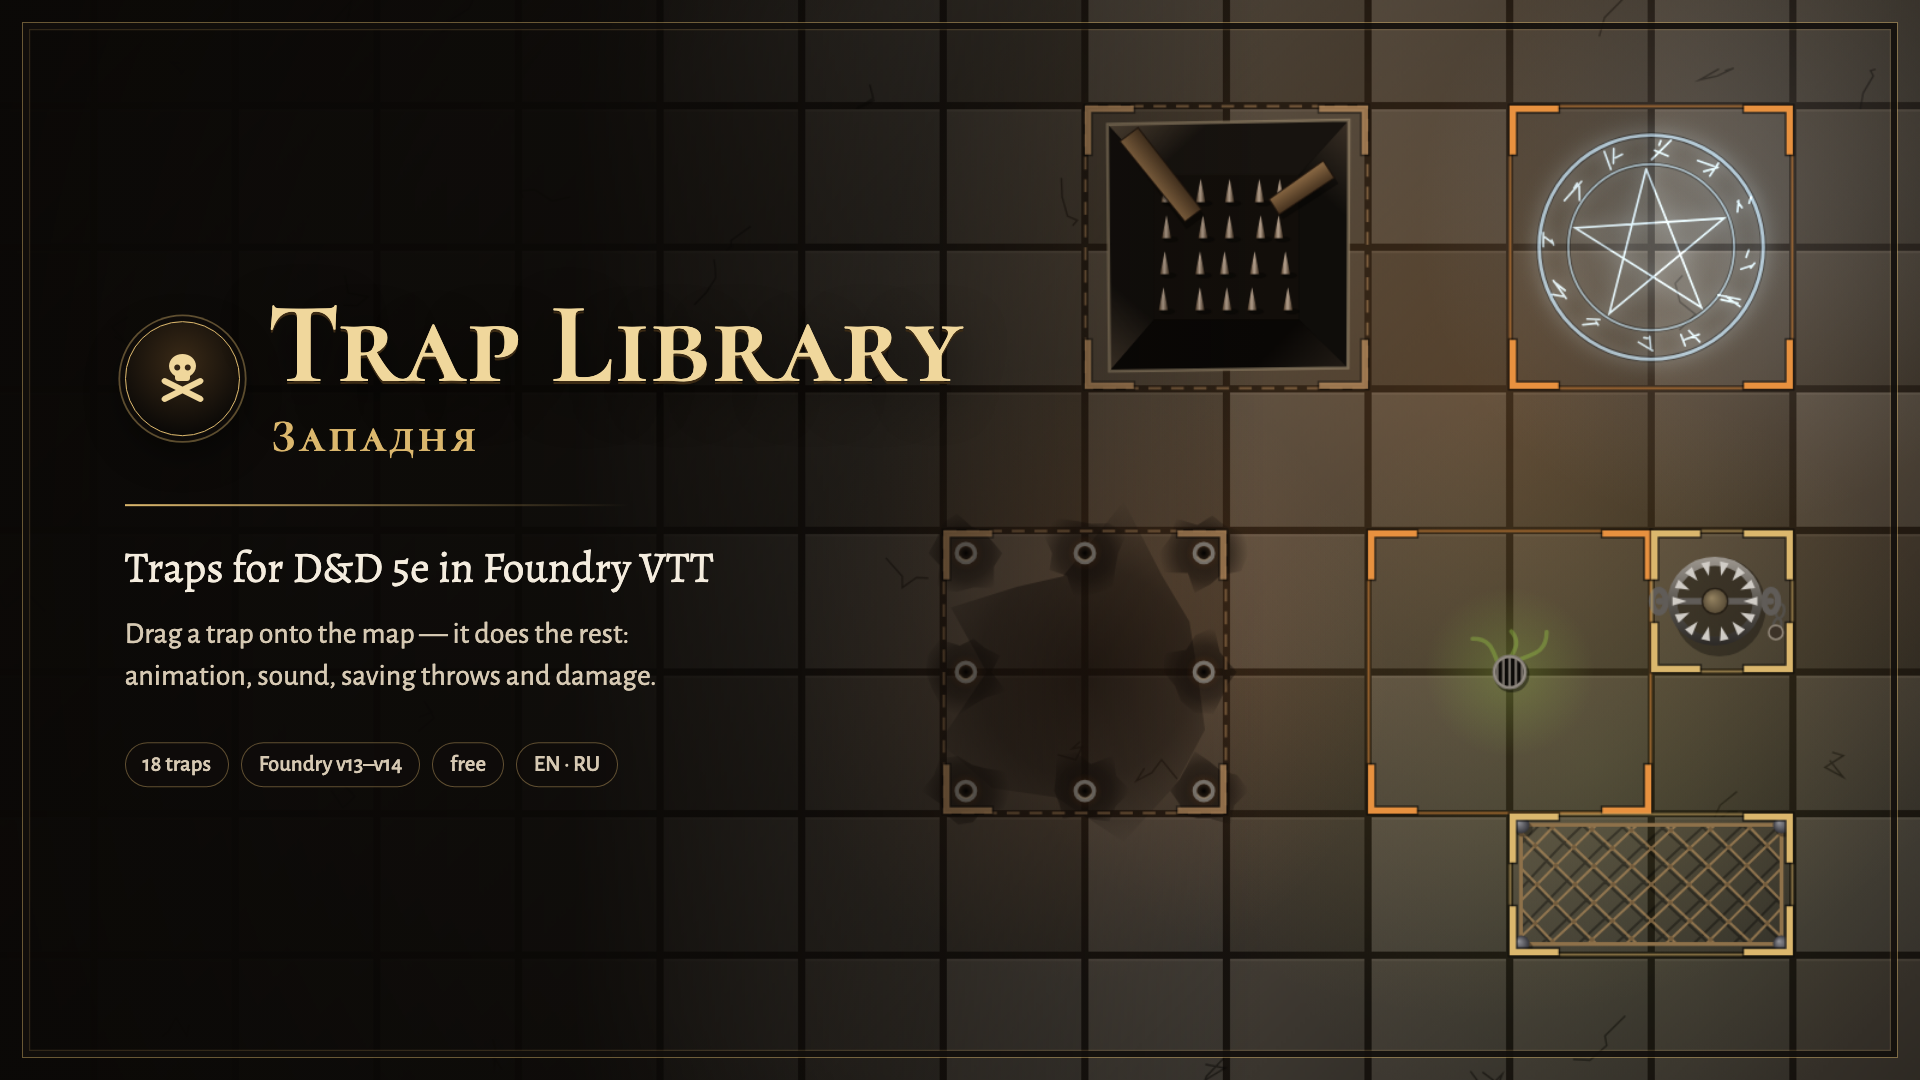
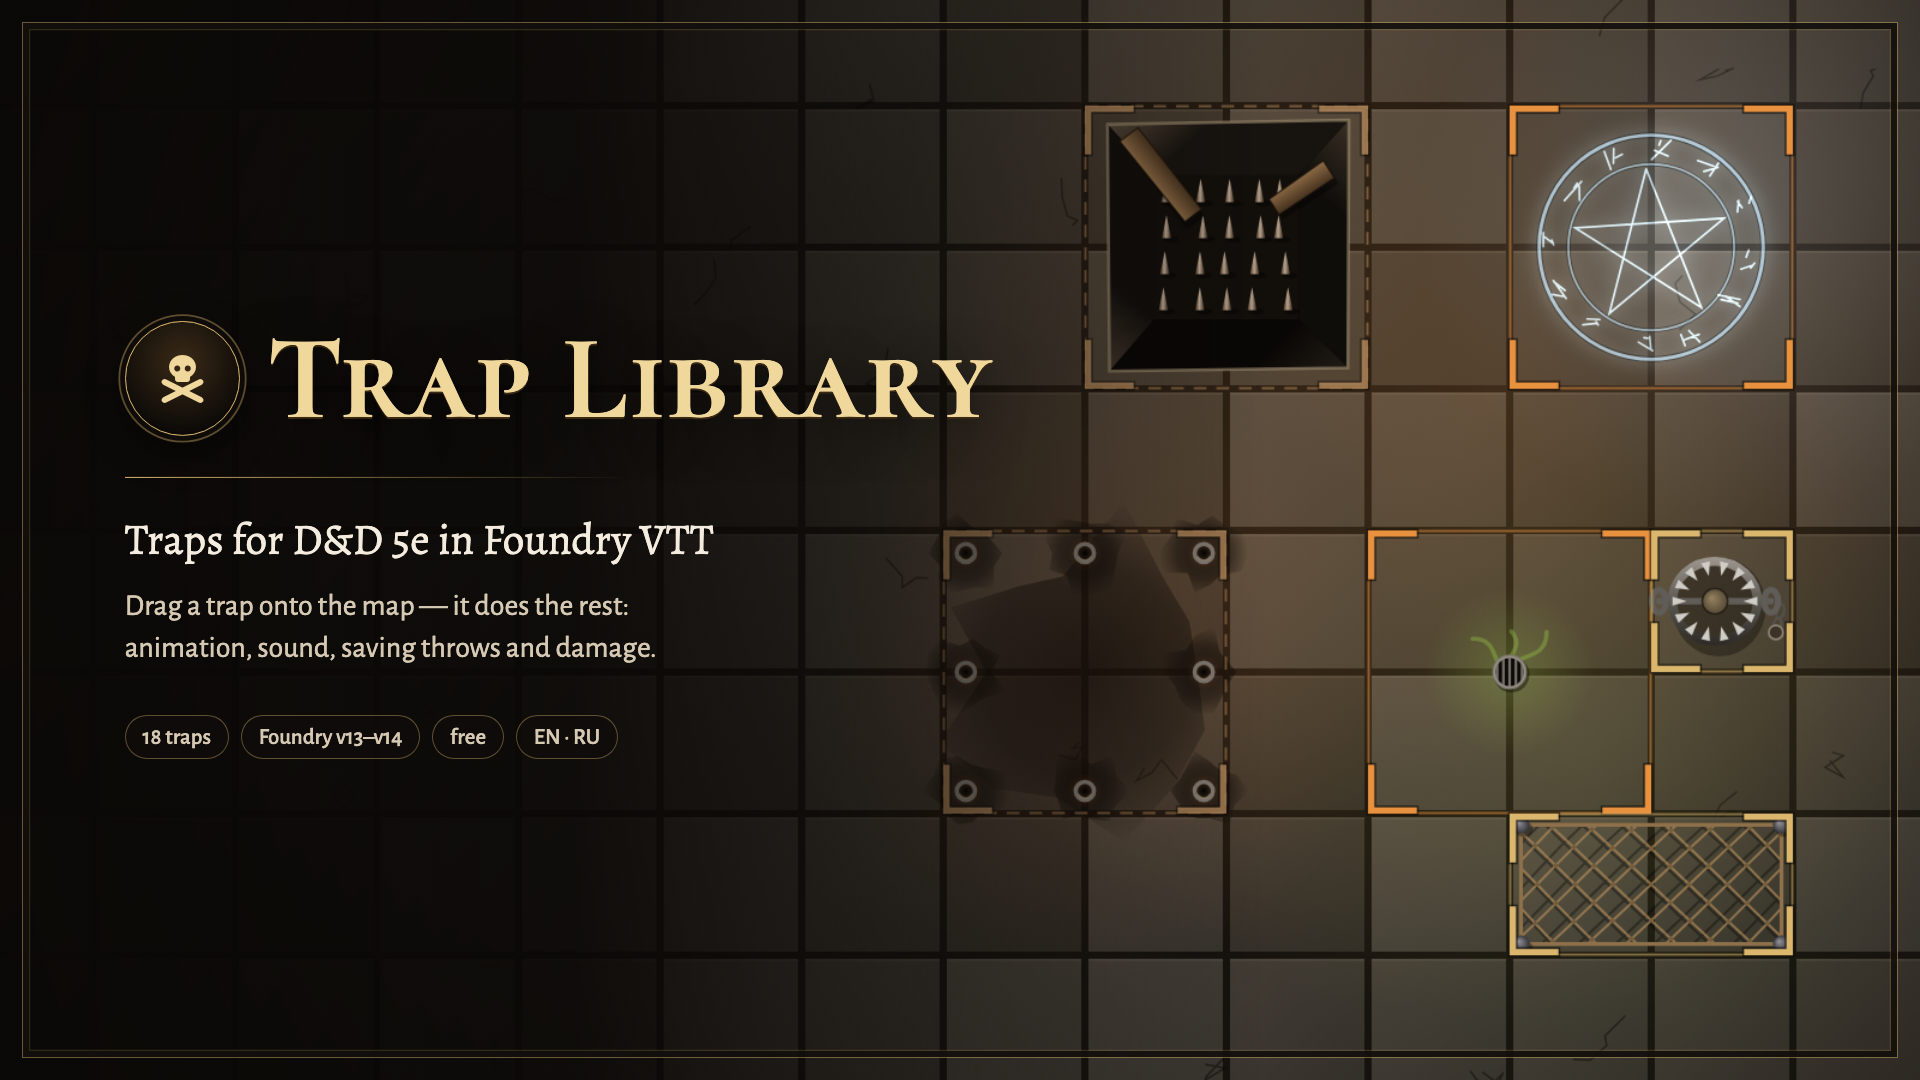
Английская заставка без русского текста

Changed region(s): [[0.0625, 0.4583, 0.375, 0.6417], [0.125, 0.275, 0.5312, 0.4278], [0.0625, 0.6722, 0.3125, 0.7333]]

diff --git a/dev/promo/banner.html b/dev/promo/banner.html
@@ -32,8 +32,9 @@
     .lead { margin: 16px 0 0; max-width: 34ch; font-family: "Alegreya Sans", sans-serif; font-size: 25px; line-height: 1.4; color: var(--ink-2); }
     .meta { display: flex; flex-wrap: wrap; gap: 10px; margin-top: 38px; }
     /* Английское название длиннее «Западни». */
-    .en h1 { font-size: 96px; }
-    .en .copy { width: 720px; }
+    .en h1 { font-size: 100px; white-space: nowrap; }
+    [hidden] { display: none !important; }
+    .en .copy { width: 760px; }
     .meta span { padding: 6px 14px; border: 1px solid rgb(219 183 109 / 0.4); border-radius: 999px; background: rgb(14 12 10 / 0.7);
       font-family: "Alegreya Sans", sans-serif; font-size: 19px; font-weight: 500; color: var(--ink-2); }
   </style>

diff --git a/dev/promo/banner.js b/dev/promo/banner.js
@@ -16,7 +16,7 @@ const TEXT = {
   },
   en: {
     h1: "Trap Library",
-    sub: "Западня",
+    sub: "",
     tag: "Traps for D&D 5e in Foundry VTT",
     lead: "Drag a trap onto the map — it does the rest: animation, sound, saving throws and damage.",
     meta: ["18 traps", "Foundry v13–v14", "free", "EN · RU"],
@@ -30,6 +30,7 @@ for (const node of document.querySelectorAll("[data-t]")) {
   const value = TEXT[lang][node.dataset.t];
   if (Array.isArray(value)) node.replaceChildren(...value.map((v) => Object.assign(document.createElement("span"), { textContent: v })));
   else node.textContent = value;
+  node.hidden = !String(value ?? "").length;
 }
 
 const W = 1600;
